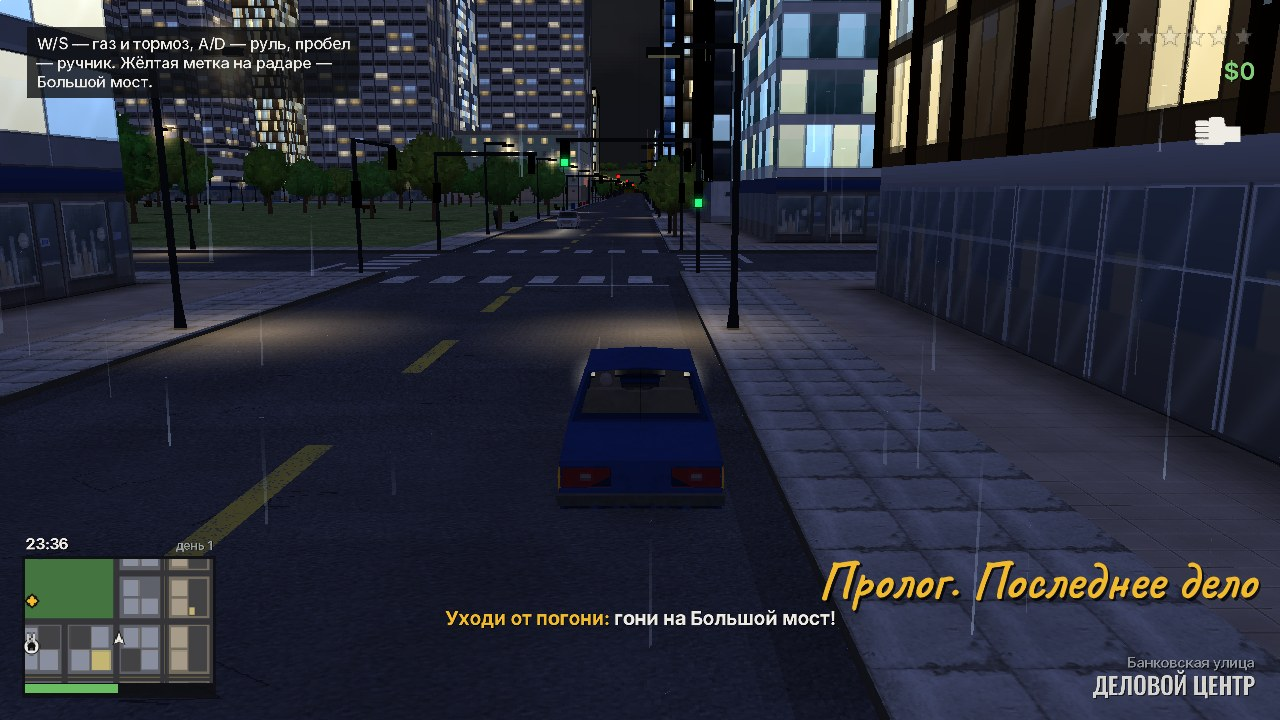
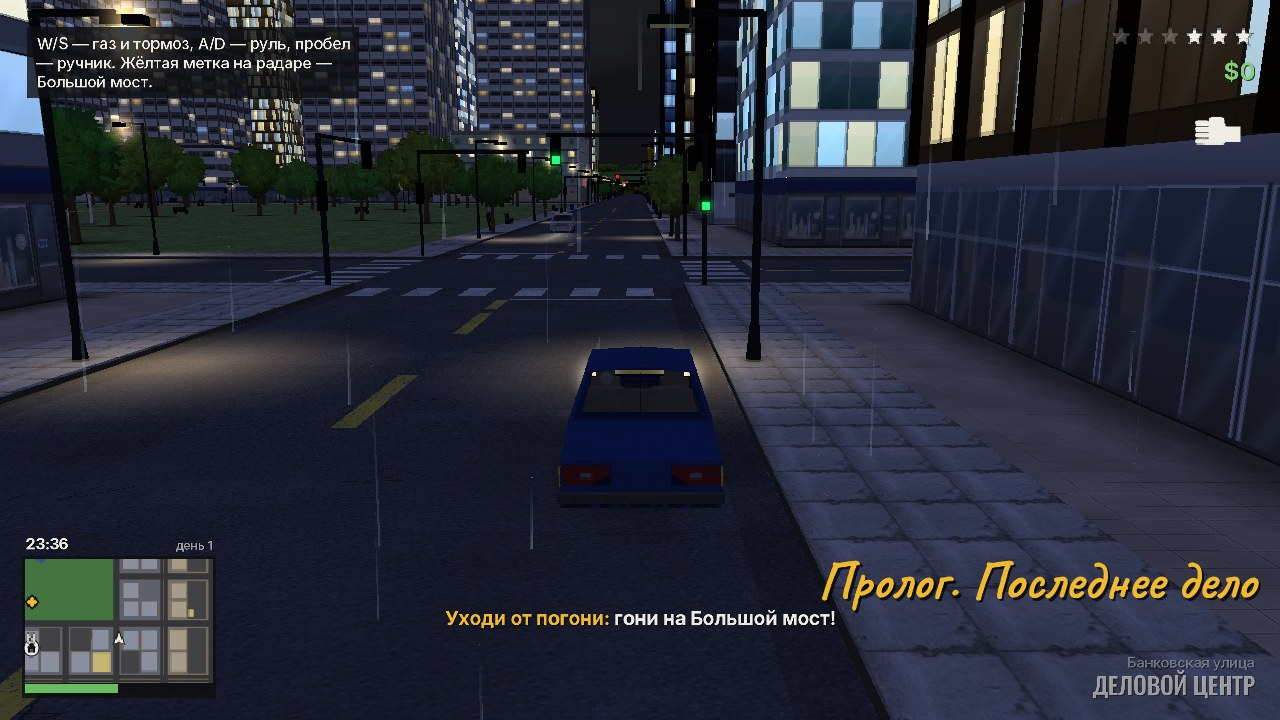
Снимок погони из пролога: звёзды розыска сняты в кадре, где они горят

diff --git a/tools/make_screenshots.py b/tools/make_screenshots.py
@@ -41,6 +41,14 @@ def main():
         for _ in range(3):
             g.base.graphicsEngine.renderFrame()
             harness.run(g, 1.0 / 30.0, keys=keys)
+        # звёзды розыска мигают, когда уровень только что вырос: снимаем в тот кадр, где они горят
+        pol = w.police
+        for _ in range(8):
+            if not (g.state == 'play' and pol.level > 0 and (pol.cool_t > 2.0 or pol.flash > 0.0)
+                    and int(w.hud.t * 5) % 2 == 0):
+                break
+            g.base.graphicsEngine.renderFrame()
+            harness.run(g, 1.0 / 30.0, keys=keys)
         png = os.path.join(TMP, name + '.png')
         harness.shot(g, png)
         Image.open(png).convert('RGB').save(os.path.join(DOCS, name + '.jpg'), quality=88)
